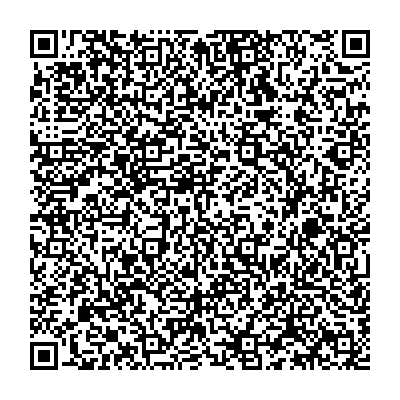
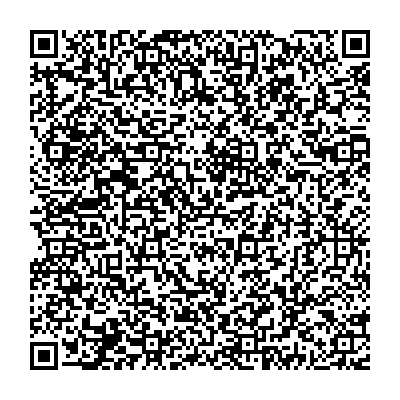
signed qrs with another certificate

diff --git a/PA/1.0.0/README.md b/PA/1.0.0/README.md
@@ -2,21 +2,19 @@
 
 ## Test files
 
-### Diana Fernandez Rodriguez 2 doses of Pfizer
 
-HC1:NCFOXN%TSMAHN-HBWKT8U%WBZ$FT8Q9EHYVNU96MFOLX8TMQ%BS:X9CKQS+SCV4*XUA2PSGH.+H$NI4L67TCPN1HQ12Y9EW72E88SOQ+Q$DQS75S5T0/DG9CJZI202YZJ0PIBZIXJA  CG8C5DLW9C.PDS1JZEBJVT1LT/+TIZI.EJJ1450M7U6 CO:45HOJ+PB/VSQOL9DLKWCZ3EBKDYGIZ J$XI4OIMEDTJCJKDLEDL9CZTAE9IK%MLTQ9R0+L69/9-3AKI63ZM7KQQ00F%D$ZJ*DJWP42W5P.QAL6L/5R95GAM1Z5R35 96NY4WG9/35P*KFO6%T69F5+Y5OT4I0PQNQ1A6-Z7Z$KI.PHHPQNQ+-O0PPXHP.Y4WVQA$Q2I5FT5D75W9AV88G647F8WFW8KF:1QI:72$FM G/OVBVM%YB:5I9:BCWP%WKTMCFWMDEGC0IWP6FAN-PM:5DD6UIP6DPAQBR4$D6FQ+DJVHM*N8R3K1*R$F7R30ACU74
 
-![VAC1](VAC1.png)
+
 
 ###  Avelino Sanchez Zapata 2 doses ASTRAZENECA
 
-HC1:NCFRW2B8O8D0%20V9707J5C10+PBHLV/9V$U1R7--ARZIRAI+49/QE.EUB N%QN $SCMS-P68EGKT0-S0 DT138BSA/118D977AKL885WE%HBJR4.H5IUUXOA$QDXME-9L/AM26 DUYTGQTS-/OP%LL9V70NJ7HS6H/NVW OLTBR$2K MNCHAFUZ50HB08BGC 10+0GB7X12 BTBBAGWOUEPD/4:S2MG4NBBAEGFUC+XG%DHZ EF*I.9TTJC4N41MN8J8ND0C23AMCF1FF$GBQ1M6CSC12W87NH6DJU+36IGX74DROREA 47T+OT4K3FB KI1T82VGQQ7-BK4JM0GIH0RK1HMWLQI5575YCCHDU*Z9:A1DEM*/SVW6DDD54OTT91WCBMJO05G0BVPU5IA PP:EFN:DUPF5Q1+00 3PAXR03V/1Q%:1*ZPR.VF01VXE+B7F7NW6EY0PO3G*ZN$:3U6IEAUS6LGWM1273977R6 IJ1/T/$V83I-NFSU3J3TB10LVNU1
+HC1:NCFRW2*.P8D0/232A3MQT LB0OO4ODBYHQ7FV933E3HELRAI%VCZEN78U41IONK:VQ9Q5*52:$06NK6EAVSLPG0X70ZR2NQ9DY8*42KMGMMG66P.BBW87L/SYDEM$P*JCS7GLTN80KQRN %14D05K5TL3H/U 3PRT4XKE%MO%A2 $KQ4OD%LOIE3C0W48O84.WVIEOL40RKIU5I*UCU6V.RP5-8P7TMJH12V7N06D2 24KU96U1L82W+CXHBG.IEUU$AH5T2+OCTN55LE*:Q/ REJEL7K5DD35E2PN.P14NO/HOT1G  LPVHQ7VE4SA2J3PQ8QO848X5M9BHULAWOQIBRG1L3.5UI5887R52.-601S2S39A2DBMD9RQZCQNN53A5EJ5*E2EA/LSFQ63PPQEDVY83$9S0M.:29641EM9/7F0N6RV%-66B1USROPO.:RBLE13G XFF2WY41T0AUDU45OWGQ/$3LWONHQ2WO3UD. P1 1Q+UW9MC:4JDBBFW05W45AVRE
 
 ![VAC2](VAC2.png)
 
 ### COVID TEST Andrés Espinoza
 
-HC1:NCFMX1B8O8D0C400GE5YL.M3X%241113KH3FU.UPBK$4Q6YKTLUWRPBHNV5UY26T-J :19OJ+MG0DO.31ZG9TCL%3HVEDYJLC11P6H D5OK08NDSFS6YF$CQ%EA+XOT0HQ+TG7TH+KX+MH9RH4M8OS:F3+EJCXQ/JMHB7XHV:ENMN5URDW2RL-426S:D2/LG$IPOFRHSB:OK+32/WH.H1981QDP U80P46J2088YQBWVM2 JNJCW1SUQD%FLPX6DI1AX0BB1-A4*10SMGKAHOLHCIAGJ9MA2ZMRSNVX$M:M338D9FMWM5N5A/N2YYSPMVG:3UG4:44TDJQ1UNT70E2YHI358 .18/09300+0392I/AHHRUX2E.BMKLM6E2H6AUA7OVI*JAXI2JDV%BZU183L9MKANV :DA KQ2HYVRF 078EP1RLNLN.D:P5LFVI3MI$4.FQBCDAYDKD3TL1D.IB9N7AMXFG*+F4XOXMTO5DZCV3TF2/EEQ7-JNM*BXAS2/9M5GP1Q:28FSSF4
+HC1:NCFMX1B8O8D0C400GE XK*NKFQBEE4JOFS5SKCULIRHHK+I8RDLTA94FVJ2SOFBGK1$9JVV0-P6ZB9F5G%2P:Q6OZMT22LO09F8F:1SS83PC4:D:FUQ5OBDTTGJ7X2UUF+-A3$VC724N7X5MJKGMCIG9UBN32YP1E8VA6T$V XG 2IIB3QEEQCLB9KFTC9IANT28XPQM81LI.91W593A0 EQ $07IRMBJB9NX42%ID7US8XHE8BQJ4KA9*F4E.PGA0-79-IEBKH.78.0C3LS KA799$J2UFBVLC$PSPQMPS97EQ/BFSBA8AH%F3KJ62V2OZI0WG6YGB9EVIB:FH9D8GD1S%Q2E9W2G.8G5783I6/$TBRJ.RC2 9YIN2Z0456A3DM:O.JA*EE:0ADYQCO1756VXH%LA+%SL/BEZ64LCE24OSO+Q7/+J-LR7/7X%3A5KO7S0IPW:A8VTD6OY1N8QU:UJ-QB5+760NI.M:CUI/JY6MX1HKWRY.LJKT5-PI 92*B-BOA5BC%T9JOHKF
 
 ![TEST1](TEST1.png)
 

diff --git a/PA/1.2.1/README.md b/PA/1.2.1/README.md
@@ -5,6 +5,6 @@
 
 ### Recovery Jeremy Andersen
 
-HC1:NCFOXN%TSMAHN-HPO4898U9R66DK61QG47X5QR9H9EOGI4ZEF%BM*4D7DSZL-MPW$NLEEEJCY S2%K9+PY+Q0R4U64SW65J6SV6DG0BZIE I2%K:XF03L/ZI4Q5%H0AN8XI0PZB+SGZXI551LDQV ONM5PRP-RGZJJTKLT1K5LO5B9-NT0 2$$0X4PCY0X:CZD5CC9T0HC+2CNN$2P0$8IGF5JNBPI$RUVT3EIA$SH $UBPI3$UF NQRH8PE/UIGSU%SQDVB7VBHM4YZQ4H9-T3JUB6SG-4W4PI%CG10H.+8V.G. 138NW38DLNZ26UP7QZRT4L4:5OE4$2CK08NW763WMVT*%E6ZMO:3.-U RMXVM:2N/4K3QD8AN-MREVP$ZN90S10E8NA/2F3DFM TA732+DYHD
+HC1:NCFOXN%TSMAHN-HPO4898U9R66DK61QG47X5QR9H9EOGIXYE EN:X95NQ0-R NI4EFSYSS%OM6PYE93JJ8KLVE9T78.PDOWC.ND+Q0795DB5YE9/MVUY9QA5*CBVZ0K1HL$05QNYZ0-B5O42DGK2CHF*AZ%I801OH6/OAT$79KG-RI PQVW5/O16%HAT1Z%PPRAAUICO1OZ5+ZEEYHENH WUQRELS400TV87E.KSZ2CET7Y4 CT1HF$%2G5T+*431TUZKQHN0NN3*88AL**I697OLNBY0M%V%X4G90IY1* H2O1XQ31REJWJJ1H:6Q/RC:F8IF9T/1X$HGTTB+BZP7%P4%421EN.RIT/T*EAVDJT$18+Q2M3U0EJUTPWMVFMESBS:L4WH.M9S4QD:IIY23H0I54I*C
 
 ![REC1](REC1.png)
